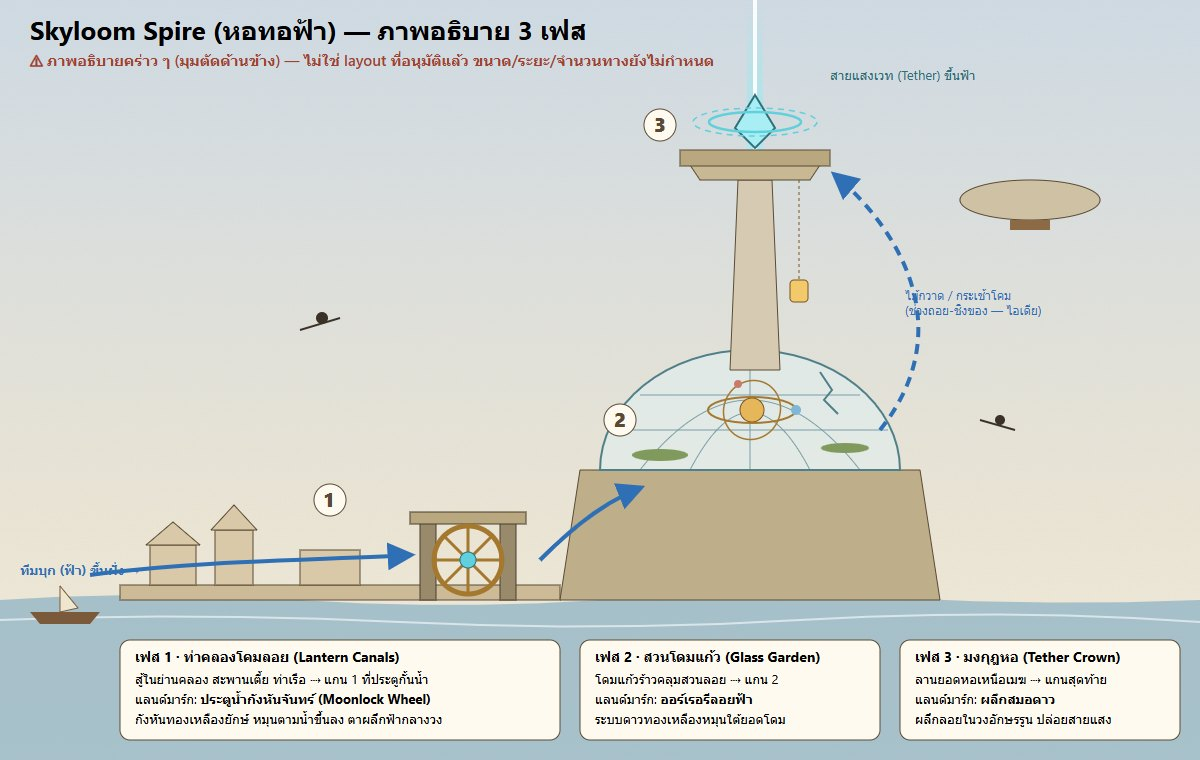
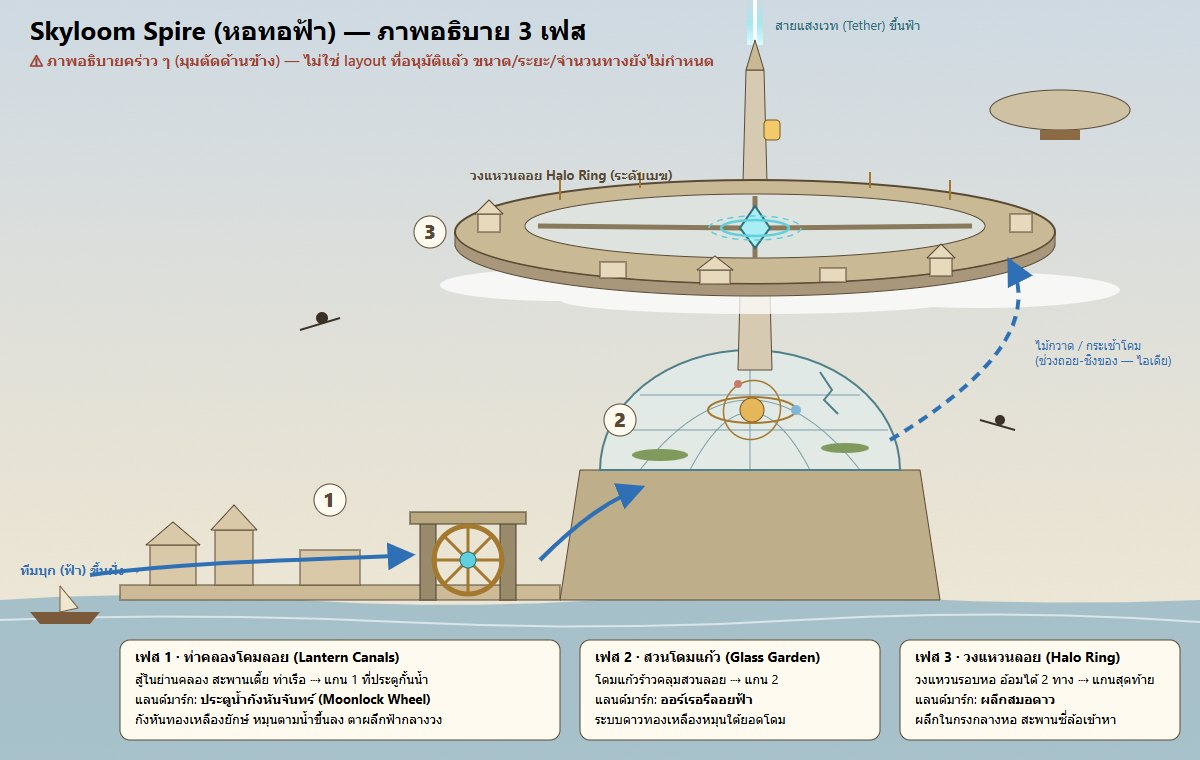
Concepts: Skyloom phase 3 becomes the Halo Ring; spawns, routes, first renders
Phase 3 moves from the too-small spire top to a floating ring around the
tower. Adds phase 3 spawn points and attack routes (proposals), updates
the overview/loot prompts and the explanatory sketch, and stores the
user's first two ChatGPT renders as results of the overview item.

diff --git a/designs/skyloom-spire-phases.html b/designs/skyloom-spire-phases.html
@@ -21,9 +21,9 @@ text{font-family:"Segoe UI",Tahoma,sans-serif}
 <text x="30" y="66" font-size="15" fill="#a2402e" font-weight="600">⚠ ภาพอธิบายคร่าว ๆ (มุมตัดด้านข้าง) — ไม่ใช่ layout ที่อนุมัติแล้ว ขนาด/ระยะ/จำนวนทางยังไม่กำหนด</text>
 
 <!-- light tether -->
-<rect x="747" y="0" width="16" height="250" fill="url(#beam)"/>
-<rect x="753" y="0" width="4" height="250" fill="#ffffff" opacity=".9"/>
-<text x="830" y="80" font-size="13" fill="#2d6f7a">สายแสงเวท (Tether) ขึ้นฟ้า</text>
+<rect x="747" y="0" width="16" height="45" fill="url(#beam)"/>
+<rect x="753" y="0" width="4" height="45" fill="#ffffff" opacity=".9"/>
+<text x="775" y="30" font-size="13" fill="#2d6f7a">สายแสงเวท (Tether) ขึ้นฟ้า</text>
 
 <!-- sea / lagoon -->
 <path d="M0,600 Q150,590 300,600 T600,600 T900,598 T1200,600 V760 H0z" fill="#8fb3c4" opacity=".75"/>
@@ -62,29 +62,44 @@ text{font-family:"Segoe UI",Tahoma,sans-serif}
 <!-- garden islets inside -->
 <ellipse cx="660" cy="455" rx="28" ry="6" fill="#7f9a5c"/><ellipse cx="845" cy="448" rx="24" ry="5" fill="#7f9a5c"/>
 
-<!-- PHASE 3: spire + crown -->
-<path d="M730,370 L780,370 L772,180 L738,180z" fill="#d6cbb2" stroke="#5a4a35"/>
-<path d="M700,180 L810,180 L820,165 L690,165z" fill="#c8b994" stroke="#5a4a35"/>
-<rect x="680" y="150" width="150" height="16" fill="#b9a780" stroke="#5a4a35"/>
-<!-- anchor crystal + rune rings landmark -->
-<path d="M755,95 L775,128 L755,148 L735,128z" fill="#a9eef4" stroke="#2d6f7a" stroke-width="2"/>
-<ellipse cx="755" cy="122" rx="46" ry="10" fill="none" stroke="#5fd0dc" stroke-width="2.5"/>
-<ellipse cx="755" cy="122" rx="62" ry="14" fill="none" stroke="#5fd0dc" stroke-width="1.5" stroke-dasharray="6 5"/>
-<!-- lantern lift cabin -->
-<rect x="790" y="280" width="18" height="22" rx="4" fill="#f2c96b" stroke="#7a5420"/>
-<line x1="799" y1="180" x2="799" y2="280" stroke="#7a5420" stroke-dasharray="3 3"/>
+<!-- PHASE 3: Halo Ring around the spire at cloud height -->
+<path d="M738,370 L772,370 L764,70 L746,70z" fill="#d6cbb2" stroke="#5a4a35"/>
+<path d="M755,40 L764,70 L746,70z" fill="#c8b994" stroke="#5a4a35"/>
+<!-- cloud layer -->
+<g fill="#ffffff" opacity=".75"><ellipse cx="560" cy="285" rx="120" ry="16"/><ellipse cx="980" cy="290" rx="140" ry="18"/><ellipse cx="760" cy="300" rx="200" ry="14"/></g>
+<!-- ring platform (outer band, hole, front lip) -->
+<ellipse cx="755" cy="232" rx="300" ry="52" fill="#c9b994" stroke="#5a4a35" stroke-width="2"/>
+<ellipse cx="755" cy="226" rx="230" ry="32" fill="#dfe3e0" stroke="#5a4a35"/>
+<path d="M455,232 A300,52 0 0 0 1055,232 L1055,244 A300,52 0 0 1 455,244z" fill="#a8977a" stroke="#5a4a35"/>
+<!-- spoke bridges -->
+<g stroke="#8a7a5c" stroke-width="5"><line x1="538" y1="226" x2="742" y2="228"/><line x1="972" y1="226" x2="768" y2="228"/><line x1="755" y1="196" x2="755" y2="215"/><line x1="755" y1="258" x2="755" y2="240"/></g>
+<!-- buildings along ring -->
+<g fill="#e6d9bc" stroke="#5a4a35">
+  <rect x="478" y="214" width="22" height="18"/><path d="M475,214 L489,200 L503,214z"/>
+  <rect x="600" y="262" width="26" height="16"/><rect x="700" y="270" width="30" height="14"/><path d="M697,270 L715,256 L733,270z"/>
+  <rect x="820" y="268" width="26" height="14"/><rect x="930" y="258" width="22" height="18"/><path d="M927,258 L941,244 L955,258z"/>
+  <rect x="1010" y="214" width="22" height="18"/>
+</g>
+<g stroke="#a5782f" stroke-width="2"><line x1="560" y1="200" x2="560" y2="180"/><line x1="950" y1="200" x2="950" y2="180"/><line x1="640" y1="188" x2="640" y2="172"/><line x1="870" y1="188" x2="870" y2="172"/></g>
+<!-- anchor crystal in brass cage at hub -->
+<path d="M755,206 L770,228 L755,248 L740,228z" fill="#a9eef4" stroke="#2d6f7a" stroke-width="2"/>
+<ellipse cx="755" cy="228" rx="34" ry="8" fill="none" stroke="#5fd0dc" stroke-width="2.5"/>
+<ellipse cx="755" cy="228" rx="46" ry="12" fill="none" stroke="#5fd0dc" stroke-width="1.5" stroke-dasharray="6 5"/>
+<text x="470" y="180" font-size="13" fill="#5a4a35" font-weight="700">วงแหวนลอย Halo Ring (ระดับเมฆ)</text>
+<!-- lantern lift cabin on the tether above -->
+<rect x="764" y="120" width="16" height="20" rx="4" fill="#f2c96b" stroke="#7a5420"/>
 
 <!-- airship + brooms -->
-<ellipse cx="1030" cy="200" rx="70" ry="20" fill="#cfc2a4" stroke="#5a4a35"/><rect x="1010" y="220" width="40" height="10" fill="#8b6a45"/>
+<ellipse cx="1060" cy="110" rx="70" ry="20" fill="#cfc2a4" stroke="#5a4a35"/><rect x="1040" y="130" width="40" height="10" fill="#8b6a45"/>
 <g stroke="#3a3226" stroke-width="2" fill="#3a3226"><line x1="300" y1="330" x2="340" y2="318"/><circle cx="322" cy="318" r="5"/></g>
 <g stroke="#3a3226" stroke-width="2" fill="#3a3226"><line x1="980" y1="420" x2="1015" y2="430"/><circle cx="1000" cy="420" r="4"/></g>
 
 <!-- attack flow -->
 <path d="M90,575 C200,560 330,560 410,555" stroke="#2f6fb5" stroke-width="4" fill="none" marker-end="url(#ar)"/>
 <path d="M540,560 C580,520 610,500 640,488" stroke="#2f6fb5" stroke-width="4" fill="none" marker-end="url(#ar)"/>
-<path d="M880,430 C960,330 900,230 835,175" stroke="#2f6fb5" stroke-width="4" fill="none" stroke-dasharray="10 7" marker-end="url(#ar)"/>
-<text x="905" y="300" font-size="12" fill="#2f6fb5">ไม้กวาด / กระเช้าโคม</text>
-<text x="905" y="315" font-size="12" fill="#2f6fb5">(ช่วงถอย-ชิงของ — ไอเดีย)</text>
+<path d="M890,440 C990,380 1040,320 1010,262" stroke="#2f6fb5" stroke-width="4" fill="none" stroke-dasharray="10 7" marker-end="url(#ar)"/>
+<text x="1035" y="350" font-size="12" fill="#2f6fb5">ไม้กวาด / กระเช้าโคม</text>
+<text x="1035" y="365" font-size="12" fill="#2f6fb5">(ช่วงถอย-ชิงของ — ไอเดีย)</text>
 
 <!-- phase tags -->
 <g font-size="14" font-weight="700">
@@ -101,15 +116,15 @@ text{font-family:"Segoe UI",Tahoma,sans-serif}
   <text x="595" y="724" font-weight="400" font-size="13">ระบบดาวทองเหลืองหมุนใต้ยอดโดม</text>
 
   <rect x="900" y="640" width="280" height="100" rx="10" fill="#fffaf0" stroke="#5a4a35"/>
-  <text x="915" y="662">เฟส 3 · มงกุฎหอ (Tether Crown)</text>
-  <text x="915" y="684" font-weight="400" font-size="13">ลานยอดหอเหนือเมฆ ⇢ แกนสุดท้าย</text>
+  <text x="915" y="662">เฟส 3 · วงแหวนลอย (Halo Ring)</text>
+  <text x="915" y="684" font-weight="400" font-size="13">วงแหวนรอบหอ อ้อมได้ 2 ทาง ⇢ แกนสุดท้าย</text>
   <text x="915" y="704" font-weight="400" font-size="13">แลนด์มาร์ก: <tspan font-weight="700">ผลึกสมอดาว</tspan></text>
-  <text x="915" y="724" font-weight="400" font-size="13">ผลึกลอยในวงอักษรรูน ปล่อยสายแสง</text>
+  <text x="915" y="724" font-weight="400" font-size="13">ผลึกในกรงกลางหอ สะพานซี่ล้อเข้าหา</text>
 </g>
 <g font-size="20" font-weight="800" fill="#5a4a35">
   <circle cx="330" cy="500" r="16" fill="#fffaf0" stroke="#5a4a35"/><text x="324" y="507">1</text>
   <circle cx="620" cy="420" r="16" fill="#fffaf0" stroke="#5a4a35"/><text x="614" y="427">2</text>
-  <circle cx="660" cy="125" r="16" fill="#fffaf0" stroke="#5a4a35"/><text x="654" y="132">3</text>
+  <circle cx="430" cy="232" r="16" fill="#fffaf0" stroke="#5a4a35"/><text x="424" y="239">3</text>
 </g>
 <text x="20" y="575" font-size="13" fill="#2f6fb5" font-weight="700">ทีมบุก (ฟ้า) ขึ้นฝั่ง →</text>
 </svg>

diff --git a/concepts/CONCEPTS.md b/concepts/CONCEPTS.md
@@ -6,7 +6,7 @@
 ## #8 Skyloom ชิงของรอบ 2 — สวนลอยกลางเมฆ
 - สถานะ: 📝 พรอมต์พร้อม • ชนิด: แผนที่ • แท็ก: สีน้ำ, Castle Strike, ชิงของ, ไม้กวาด, เกาะลอย
 
-ช่วงชิงของหลังเฟส 2 ก่อนเฟส 3 (ข้อเสนอ ยังไม่ล็อก): เกาะสวนเล็ก ๆ ลอยรอบตัวหอ ช่วงกลางระหว่างหลังคาโดมกับยอดหอ ล้อมด้วยเมฆ • ต้องบินไม้กวาดข้ามเกาะ หลุดขอบ = ออกนอกเขต • ทีมรับถอยขึ้นมงกุฎหอ ทีมบุกถอยขึ้นหลังคาโดม เกาะอยู่ระหว่างกลาง • ของบนเกาะไกลหอให้ระดับสูงกว่า แต่บินไปกลับนานและเสี่ยงกว่า.
+ช่วงชิงของหลังเฟส 2 ก่อนเฟส 3 (ข้อเสนอ ยังไม่ล็อก): เกาะสวนเล็ก ๆ ลอยรอบตัวหอ ช่วงกลางระหว่างหลังคาโดมกับวงแหวน Halo Ring ล้อมด้วยเมฆ • ต้องบินไม้กวาดข้ามเกาะ หลุดขอบ = ออกนอกเขต • ทีมรับถอยขึ้นวงแหวน ทีมบุกถอยขึ้นหลังคาโดม เกาะอยู่ระหว่างกลาง • ของบนเกาะไกลหอให้ระดับสูงกว่า แต่บินไปกลับนานและเสี่ยงกว่า.
 
 - Ref: `concepts/img/skyloom_style_ref.webp`
 
@@ -18,7 +18,7 @@ Create a single landscape concept-art illustration (16:9), mid-air view, for the
 
 FOCAL POINT: a cluster of small floating garden islands at different heights orbiting the pale spiralling stone-and-brass spire, each island a chunk of rock with grass, small trees, ivy and hanging roots, some with tiny stone shrines or broken arches; small glowing lantern cabins resting on several islands, each holding a glowing crate. Wide gaps of open sky between islands that can only be crossed by broomstick.
 
-SURROUNDINGS: above, the spire continues up to a crown terrace with a floating rune crystal and a thin luminous teal-white thread of light rising into the sky; below, the top of a cracked glass dome and a sea of golden clouds with the canal city barely visible through gaps.
+SURROUNDINGS: above, the underside of a vast floating ring-shaped platform circling the spire (the Halo Ring), with the spire continuing past it and a thin luminous teal-white thread of light rising into the sky; below, the top of a cracked glass dome and a sea of golden clouds with the canal city barely visible through gaps.
 
 LIFE: several witches on broomsticks racing between the islands, cloaks streaming, wind streaks in the mist, birds, an airship drifting in the distance. Strong sense of height.
 
@@ -51,12 +51,16 @@ STYLE (from the attached style image): traditional watercolor and ink concept pa
 Avoid: text, logos, watermark, UI, guns, modern cars, realistic faces, white steel lattice truss towers, radial pier docks, copying any existing game's design.
 ```
 
-## #6 Skyloom เฟส 3 — มงกุฎหอเหนือเมฆ / ผลึกสมอดาว
-- สถานะ: 📝 พรอมต์พร้อม • ชนิด: แผนที่ • แท็ก: สีน้ำ, Castle Strike, เฟส 3, แลนด์มาร์ก
+## #6 Skyloom เฟส 3 — วงแหวนลอยรอบหอ (Halo Ring) / ผลึกสมอดาว
+- สถานะ: 📝 พรอมต์พร้อม • ชนิด: แผนที่ • แท็ก: สีน้ำ, Castle Strike, เฟส 3, แลนด์มาร์ก, วงแหวน
 
-เฟส 3 (ยอดหอ): ลานวงแหวนเหนือเมฆรอบผลึกสมอดาว = แกนสุดท้าย ทีมรับยันบนลานชั้นใน ทีมบุกเข้ามาจากสะพานโค้งและกระเช้าโคม. การขึ้นมาเฟสนี้อาจใช้ไม้กวาดหรือกระเช้าโคมในช่วงถอย-ชิงของ (เป็นไอเดีย ยังไม่ล็อก). แลนด์มาร์ก: ผลึกยักษ์ลอยอยู่ในวงรูน 3 วง ปล่อยสายแสงขึ้นฟ้า. ตำแหน่งแกนและทางเดินเป็นแค่ตัวอย่าง.
+เฟส 3 (ผู้ใช้เลือก 2026-11-27 แทนยอดหอที่เล็กเกินไป): วงแหวนยักษ์ลอยล้อมหอที่ระดับเมฆ บนวงมีอาคาร ระเบียง สวน เสาทองเหลือง ต่อเข้าแกนหอด้วยสะพาน 3–4 เส้นเหมือนซี่ล้อ. แลนด์มาร์ก/แกนสุดท้าย: ผลึกสมอดาวในกรงทองเหลืองกลางแกนหอ ตรงจุดที่สะพานมาบรรจบ หมุนด้วยวงรูนฟ้า 3 วง. สายแสงยังพุ่งต่อจากยอดหอขึ้นฟ้า. ตำแหน่งแกนและทางเดินเป็นแค่ตัวอย่าง.
 
-วิธีเข้าทำ (ข้อเสนอ ยังไม่ล็อก): ทางหลัก = สะพานโค้งลอยฟ้า แคบและยาว ทีมรับยันง่าย • ทางอ้อม = ขึ้นทางลานจอดกระเช้าโคมอีกฝั่ง โผล่หลังแนวทีมรับ • จุดได้เปรียบ = เสาทองเหลือง 4 ต้นรอบผลึก ใช้กำบังหรือยืนบนยอด • อันตรายจากฉาก (ไอเดีย) = ขอบลานไม่มีราว ลมแรงพัดคนตกได้
+ก่อนเริ่มเฟส: แกน 2 แตก → ถอย 20 วิ → ชิงของที่เกาะลอย (#8) → ทีมรับขึ้นวงแหวนตั้งแนวรอบผลึก ทีมบุกถอยขึ้นหลังคาโดม.
+
+จุดเกิด (ข้อเสนอ ยังไม่ล็อก): ทีมบุก = ลานจอดกระเช้าโคมที่ขอบวงฝั่งใต้ • ทีมรับ = ห้องโคมในแกนหอ สูงกว่าวงแหวน 1 ชั้น ทีมบุกขึ้นไม่ได้ ทางออกจุดเดียวเป็นบันไดวน/กระเช้าสั้นลงลานรอบผลึก แล้วแยกไปเฝ้าสะพาน • ไม่เลือกเกิดฝั่งตรงข้ามบนวง (ทับทางลอบหลัง) และไม่เลือกแท่นลอยเหนือวง (ช่วยทุกสะพานได้เร็วเกิน) • ระวังทีมรับได้เปรียบเพราะเกิดใกล้ผลึก ทางถ่วง: ทางลงจากห้องเกิดยาวขึ้น/ประตูเปิดช้า, ทีมบุกยึดหัวสะพานแล้วได้จุดเกิดเพิ่ม, หรือปรับเวลาเกิดใหม่ฝ่ายรับ — รอทดสอบ/ทีมเกมเพลย์.
+
+วิธีเข้าทำ (ข้อเสนอ ยังไม่ล็อก): ① ทางตรง = สะพานใต้จากลานกระเช้าเข้าผลึก เร็วสุดแต่ยาว แคบ โล่ง ใช้ตอนได้เปรียบหรือล่อทีมรับ ② อ้อมวง (ทางหลัก) = เดินตามวงซ้าย/ขวาผ่านอาคารที่มีที่กำบัง แล้วเข้าสะพานซ้าย/ขวา บังคับทีมรับแบ่งคน ③ ลอบหลัง (ทางอ้อม) = อ้อมไปเข้าสะพานเหนือ นานสุดแต่โผล่หลังแนวรับ • ทีมรับ: ยันหัวสะพาน 4 ช่องรอบผลึก เฝ้าครบไม่ได้ต้องอ่านทาง หรือออกไปสกัดบนวง • ขอบวงไม่มีราว ลมแรง สกิลผลักส่งตกได้ (ไอเดีย) • ไม้กวาดช่วงปกติ: แนะนำปิด หรือให้ทีมบุกขี่ได้เฉพาะเส้นที่กำหนด เพราะบินลอดใต้วงไปโผล่สะพานไหนก็ได้จะแรงเกิน.
 
 - Ref: `concepts/img/skyloom_style_ref.webp`
 
@@ -64,13 +68,13 @@ Avoid: text, logos, watermark, UI, guns, modern cars, realistic faces, white ste
 ```
 Use the attached image ONLY as the art-style reference (do not copy its buildings).
 
-Create a single landscape concept-art illustration (16:9), slightly low angle, for phase 3 (final) of an original wizard siege map: the Tether Crown, the summit terrace of the Skyloom Spire high above a sea of clouds.
+Create a single landscape concept-art illustration (16:9), high three-quarter aerial view, for phase 3 (final) of an original wizard siege map: the Halo Ring of the Skyloom Spire, floating at cloud height.
 
-LANDMARK (focal point, centre): the Star Anchor, an enormous pale-cyan rune crystal floating above a circular stone dais, held in place by three huge slowly turning rings of glowing teal runes at different tilts; from its tip a single luminous teal-white thread of woven light rises straight up into the deep blue sky and disappears; small glowing lantern-lift cabins hang on the thread far above.
+LANDMARK (focal point): the Halo Ring, a vast flat ring-shaped stone-and-brass platform floating around a pale spiralling stone spire, seen as a wide ellipse filling most of the image; along the whole ring stand small stone buildings, arcades, terraces with gardens and ivy, broken balustrades, banners and slender brass pylons, so it reads like a circular sky-street big enough for a battle. Four long straight sky-bridges connect the ring to the spire like the spokes of a wheel. At the hub, where the bridges meet the tower, a huge pale-cyan rune crystal (the Star Anchor) glows inside an open brass cage wrapped by three slowly turning rings of teal runes. Above, the spire continues upward and a thin luminous teal-white thread of light rises from its tip straight up out of frame; small lantern-lift cabins climb the thread and one lift landing platform juts from the ring.
 
-SURROUNDINGS: a ring-shaped stone and brass terrace with broken balustrades, banners whipping in strong wind, four slender brass pylons anchoring the rings, an arched sky-bridge leading in from one side, a lantern-lift landing platform on the other. Below and around: an endless sea of golden-lit clouds, with the glass dome and canal city barely visible through gaps far below.
+SURROUNDINGS: below the ring, a sea of soft golden-lit clouds with gaps showing a cracked glass dome and a canal city far below; a few small floating garden islets drifting under the ring.
 
-LIFE: witches on broomsticks circling the crystal, an old airship below in the clouds, strong wind streaks in the mist. Epic sense of height and scale.
+LIFE: witches on broomsticks circling the ring and crossing the bridges, an old airship below in the clouds, wind streaks in the mist, birds. Epic sense of height and scale; the ring must clearly look large and walkable.
 
 STYLE (from the attached style image): traditional watercolor and ink concept painting, soft translucent washes, visible cold-press paper texture, loose wet-on-wet bleeding edges, thin grey-sepia ink linework, palette of pale sky blue, cream, weathered grey-white stone, moss green, soft teal accents for magic light, warm golden sunlight from the upper left; drifting mist and cloud banks that dissolve into white paper at the edges. Semi-fantasy, semi-sci-fi: old stone and brass mixed with glowing rune crystal technology. Hand-painted, NOT 3D render, NOT photoreal, NOT cartoon.
 
@@ -132,12 +136,16 @@ Avoid: text, logos, watermark, UI, guns, modern cars, realistic faces, white ste
 ## #3 Skyloom Spire — แมพ Space Elevator สายเวท (ภาพรวม)
 - สถานะ: 📝 พรอมต์พร้อม • ชนิด: แผนที่ • แท็ก: สีน้ำ, Castle Strike, 3 เฟส, หอสายแสง, ไม้กวาด, เรือเหาะ
 
-คอนเซปแมพใหม่สำหรับบุกปราสาท: หอหินพันทองเหลืองโผล่จากโดมแก้วกลางเมืองคลอง ยอดหอมีผลึกสมอดาวปล่อยสายแสงเวทขึ้นฟ้า (ได้แรงบันดาลใจเรื่องสเกลจาก Space Elevator แต่ออกแบบเอง ไม่ลอกหอหรือเกาะต้นฉบับ). บุกจากล่างขึ้นบน 3 เฟส: ① ท่าคลองโคมลอย (แลนด์มาร์ก: ประตูน้ำกังหันจันทร์) ② สวนโดมแก้ว (ออร์เรอรีลอยฟ้า) ③ มงกุฎหอเหนือเมฆ (ผลึกสมอดาว). Ref 1 = สไตล์สีน้ำจากผู้ใช้ (แนบตอนเจน), Ref 2 = ภาพอธิบาย 3 เฟส ไม่ใช่ layout ที่อนุมัติ (ใช้ดูลำดับเท่านั้น ไม่ต้องแนบ).
+คอนเซปแมพใหม่สำหรับบุกปราสาท: หอหินพันทองเหลืองโผล่จากโดมแก้วกลางเมืองคลอง ยอดหอมีผลึกสมอดาวปล่อยสายแสงเวทขึ้นฟ้า (ได้แรงบันดาลใจเรื่องสเกลจาก Space Elevator แต่ออกแบบเอง ไม่ลอกหอหรือเกาะต้นฉบับ). บุกจากล่างขึ้นบน 3 เฟส: ① ท่าคลองโคมลอย (แลนด์มาร์ก: ประตูน้ำกังหันจันทร์) ② สวนโดมแก้ว (ออร์เรอรีลอยฟ้า) ③ วงแหวนลอยรอบหอ Halo Ring ที่ระดับเมฆ (ผลึกสมอดาวในแกนหอ). Ref 1 = สไตล์สีน้ำจากผู้ใช้ (แนบตอนเจน), Ref 2 = ภาพอธิบาย 3 เฟส ไม่ใช่ layout ที่อนุมัติ (ใช้ดูลำดับเท่านั้น ไม่ต้องแนบ).
 
-ช่วงชิงของ (ข้อเสนอ ยังไม่ล็อก): รอบ 1 = ตลาดน้ำกระเช้าโคม (#7) ระหว่างย่านคลองกับฐานโดม • รอบ 2 = สวนลอยกลางเมฆ (#8) ระหว่างหลังคาโดมกับยอดหอ ต้องบินไม้กวาดข้ามเกาะ • ของถูกส่งลงมาด้วยโคมลอยตามสายแสง ธีมเดียวกันทั้งแมพ. วิธีเข้าทำแต่ละเฟสอยู่ใน #4–#6.
+ช่วงชิงของ (ข้อเสนอ ยังไม่ล็อก): รอบ 1 = ตลาดน้ำกระเช้าโคม (#7) ระหว่างย่านคลองกับฐานโดม • รอบ 2 = สวนลอยกลางเมฆ (#8) ระหว่างหลังคาโดมกับวงแหวน ต้องบินไม้กวาดข้ามเกาะ • ของถูกส่งลงมาด้วยโคมลอยตามสายแสง ธีมเดียวกันทั้งแมพ. วิธีเข้าทำแต่ละเฟสอยู่ใน #4–#6.
+
+2026-11-27 ผู้ใช้เลือก: เฟส 3 ย้ายจากยอดหอ (เล็กเกินไป) มาเป็นวงแหวนลอยรอบหอ (Halo Ring). ผลเจนรอบ 2 ของผู้ใช้: ออร์เรอรีในโดม/วงรูนฟ้า/โดมร้าวถูกแล้ว แต่กังหันประตูน้ำเฟส 1 หายไป ต้องสั่งใส่กลับ.
 
 - Ref: `concepts/img/skyloom_style_ref.webp`
 - Ref: `concepts/img/skyloom_phases_sketch.jpg`
+- ผลลัพธ์: `concepts/img/skyloom_overview_gen1.webp`
+- ผลลัพธ์: `concepts/img/skyloom_overview_gen2.webp`
 
 **พรอมต์:**
 ```
@@ -145,13 +153,13 @@ Use the attached image ONLY as the art-style reference (do not copy its building
 
 Create a single landscape concept-art illustration (16:9), a wide aerial establishing view of an original game map for a wizard siege game: the Skyloom Spire, a magical 'space elevator'.
 
-THE SPIRE (original design): the Skyloom Spire, a slender spiralling tower of pale weathered stone wrapped in brass bands, growing out of a cracked glass dome conservatory; at its top a crown terrace where a huge floating rune crystal (the Star Anchor) is held by three slowly turning rings of glowing runes, and from it a thin luminous teal-white thread of woven magic light (the Tether) rises straight up through the clouds into the sky, so tall its top is lost above the clouds. Small glowing lantern-lift cabins climb the thread. The spire stands on a crescent-shaped island inside a misty lagoon city of canals, low arched stone bridges, overgrown ruins and old towers.
+THE SPIRE (original design): the Skyloom Spire, a slender spiralling tower of pale weathered stone wrapped in brass bands, growing out of a cracked glass dome conservatory; at cloud height the spire is encircled by the Halo Ring, a vast flat ring-shaped platform floating around the tower (diameter several times the dome's width), carrying stone buildings, terraces, gardens and brass pylons along its whole circumference, joined to the tower core by four long straight sky-bridges like the spokes of a wheel; where the bridges meet the tower, a huge rune crystal (the Star Anchor) glows inside an open brass cage wrapped by three turning rings of teal runes. From the spire's tip a thin luminous teal-white thread of woven magic light (the Tether) rises straight up through the clouds into the sky, so tall its top is lost above the clouds. Small glowing lantern-lift cabins climb the thread. The spire stands on a crescent-shaped island inside a misty lagoon city of canals, low arched stone bridges, overgrown ruins and old towers.
 
 COMPOSITION:
 - Foreground left: a mossy ruined stone balcony with a hanging blue banner, framing the view (viewer stands high on an old tower).
 - Lower third: the canal district: harbour canals with moored sailboats and floating paper lanterns, and a giant brass tide-wheel set in a stone canal lock gate (the Moonlock Wheel) with a glowing blue crystal hub.
 - Centre: the cracked glass dome garden at the base of the spire, floating garden islets and a brass orrery visible faintly through the glass.
-- Centre-right, very tall: the spire rising through a layer of cloud; at the top the floating rune crystal with three glowing rings and the luminous thread of light shooting up out of frame.
+- Centre-right, very tall: the spire rising through a layer of cloud; at cloud level the huge Halo Ring platform circling it (seen in perspective as a wide ellipse, clearly much bigger than the dome) with its four spoke bridges and the glowing crystal at the hub; above it the spire continues and the luminous thread of light shoots up out of frame, unbroken to the top edge.
 - Sky: an old airship drifting past the spire, three witches on broomsticks flying at different distances for scale, a few birds.
 - Strong atmospheric depth: detailed warm foreground, hazy blue-grey distance, mist pooling on the water.
 
